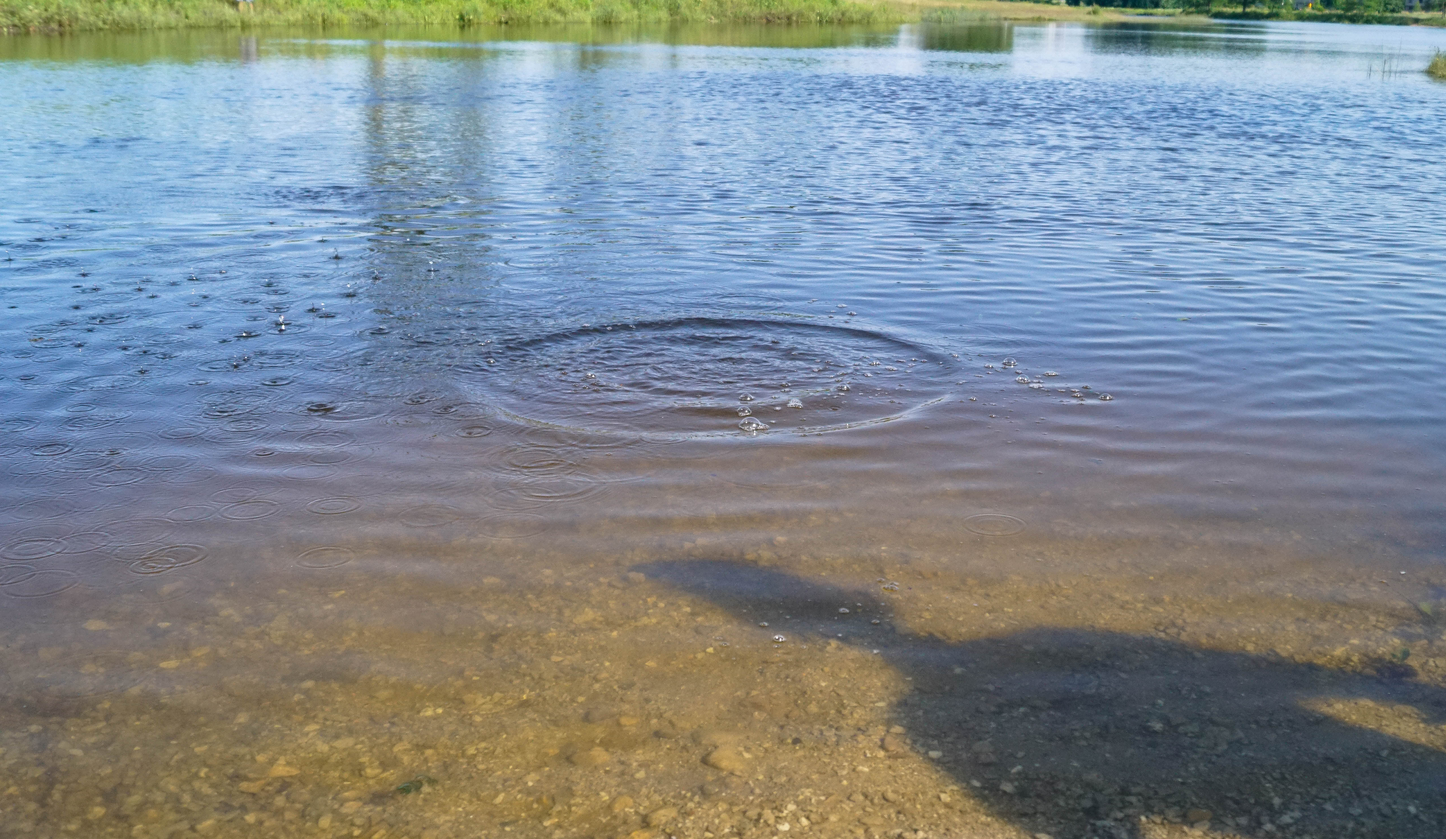
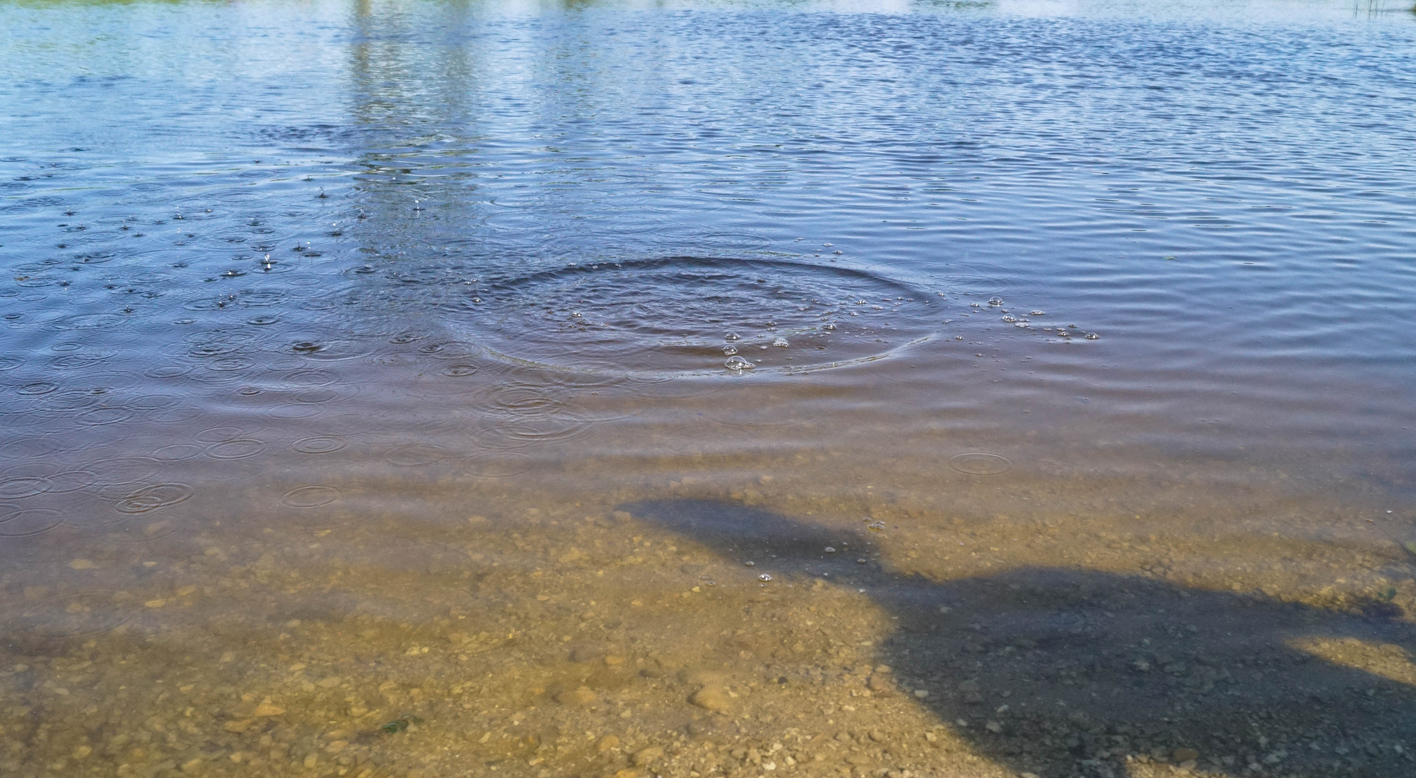
Added responsive navbar and cropped picture

diff --git a/src/App.js b/src/App.js
@@ -1,44 +1,46 @@
 import React, { Component } from 'react';
-import logo from './logo.svg';
 import './App.css';
-import { Navbar, MenuItem, Nav, NavDropdown, NavItem } from 'react-bootstrap';
+import { Navbar, Nav, NavItem } from 'react-bootstrap';
+
+
+
 
 class App extends Component {
+
+    constructor(props){
+        super(props);
+        this.changeBackground = this.changeBackground.bind(this);
+        this.state = {
+            dropped : false
+        };
+    }
+
+    changeBackground(){
+        this.setState({dropped: true})
+    }
+
     render() {
         return (
             <div className="App">
-                {/*<header className="App-header" style={{alignItems: "horizontal"}}>
-                    <h1 className="App-title">AT</h1>
-                </header>*/}
-                <Navbar fluid collapseOnSelect className = "navbar-main">
+                <Navbar collapseOnSelect className = "navbar-main">
                     <Navbar.Header>
-                        <div className = "navbar-brand">
+                        <Navbar.Brand style = {{color: '#000'}}>
                             <p className="brand-name">AT</p>
-                        </div>
+                        </Navbar.Brand>
                         <Navbar.Toggle />
                     </Navbar.Header>
-                    <Navbar.Collapse>
-                        <Nav>
+                    <Navbar.Collapse className = "drop-menu">
+                        <Nav className = "nav-elements-left">
                             <NavItem eventKey={1} href="#">
-                                Link
+                                About Me
                             </NavItem>
                             <NavItem eventKey={2} href="#">
-                                Link
+                                Projects
                             </NavItem>
-                            <NavDropdown eventKey={3} title="Dropdown" id="basic-nav-dropdown">
-                                <MenuItem eventKey={3.1}>Action</MenuItem>
-                                <MenuItem eventKey={3.2}>Another action</MenuItem>
-                                <MenuItem eventKey={3.3}>Something else here</MenuItem>
-                                <MenuItem divider />
-                                <MenuItem eventKey={3.3}>Separated link</MenuItem>
-                            </NavDropdown>
                         </Nav>
-                        <Nav pullRight>
+                        <Nav pullRight className = "nav-elements-right">
                             <NavItem eventKey={1} href="#">
-                                Link Right
-                            </NavItem>
-                            <NavItem eventKey={2} href="#">
-                                Link Right
+                                Contact Me
                             </NavItem>
                         </Nav>
                     </Navbar.Collapse>

diff --git a/src/App.css b/src/App.css
@@ -22,36 +22,7 @@
     font-size: large;
 }
 
-.navbar-brand{
-    position: absolute;
-    width: 100%;
-    text-align: center;
-    margin:0 auto;
-}
-
-.navbar-brand:hover{
-
-}
-
-.brand-name{
-    font-size: 400%;
-    color: black;
-}
-
-
-.navbar-main{
-    background-color: white;
-    height: 50px;
-    margin: 1.5%;
-    border-color: white;
-}
-
-.navbar-main:hover{
-    background-color: white;
-}
-
 .homepage{
-    position: absolute;
     height: 100%;
     width: 100%;
     background-color: azure;
@@ -61,6 +32,40 @@
 .background-img{
     max-width: 100%;
 }
+
+.navbar-main{
+    position: relative;
+    margin-bottom: 0;
+    padding: 1.5%;
+    background-color: white;
+    border-color: transparent;
+
+}
+
+.brand-name{
+    font-size: 5em;
+    position: absolute;
+    padding-right: 0;
+    padding-left: 0;
+    left: 2%;
+    right: 0;
+}
+
+.nav-elements-left{
+    position: relative;
+    font-size: large;
+}
+
+.nav-elements-right{
+    font-size: large;
+}
+
+@media screen and (max-width: 767px){
+    .drop-menu{
+        margin-top: 10px;
+    }
+}
+
 
 
 @keyframes App-logo-spin {
